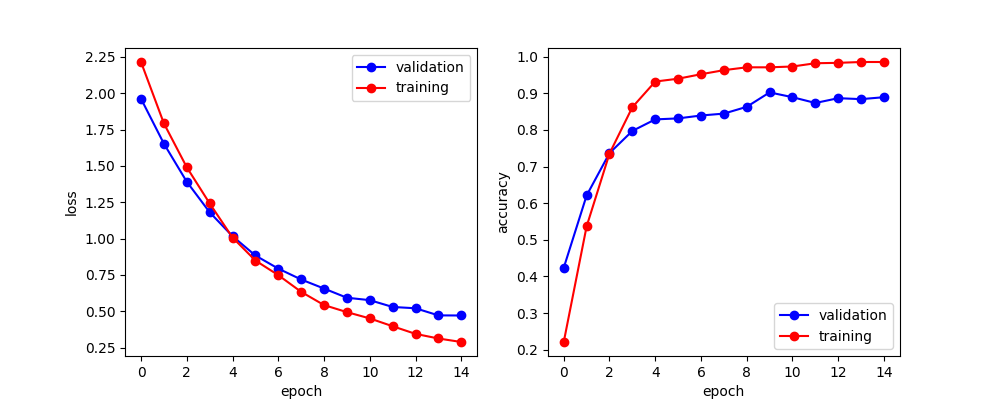
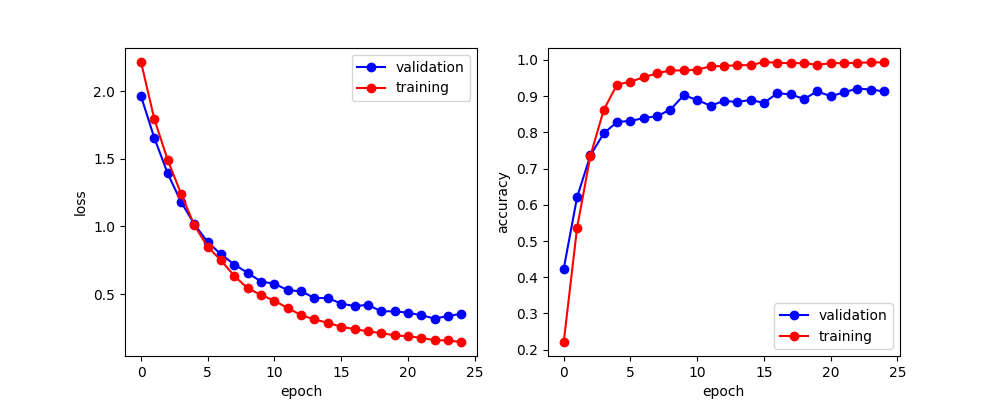
update imgs

diff --git a/get_graph.py b/get_graph.py
@@ -5,7 +5,7 @@ def main():
     val_losses = []; val_accuracies=[]
     train_losses = []; train_accuracies=[]
     fin = sys.argv[1]
-    epochs = 15
+    epochs = 25
     if len(sys.argv) > 2:
         epochs = int(sys.argv[2])
     train_loss = -1
